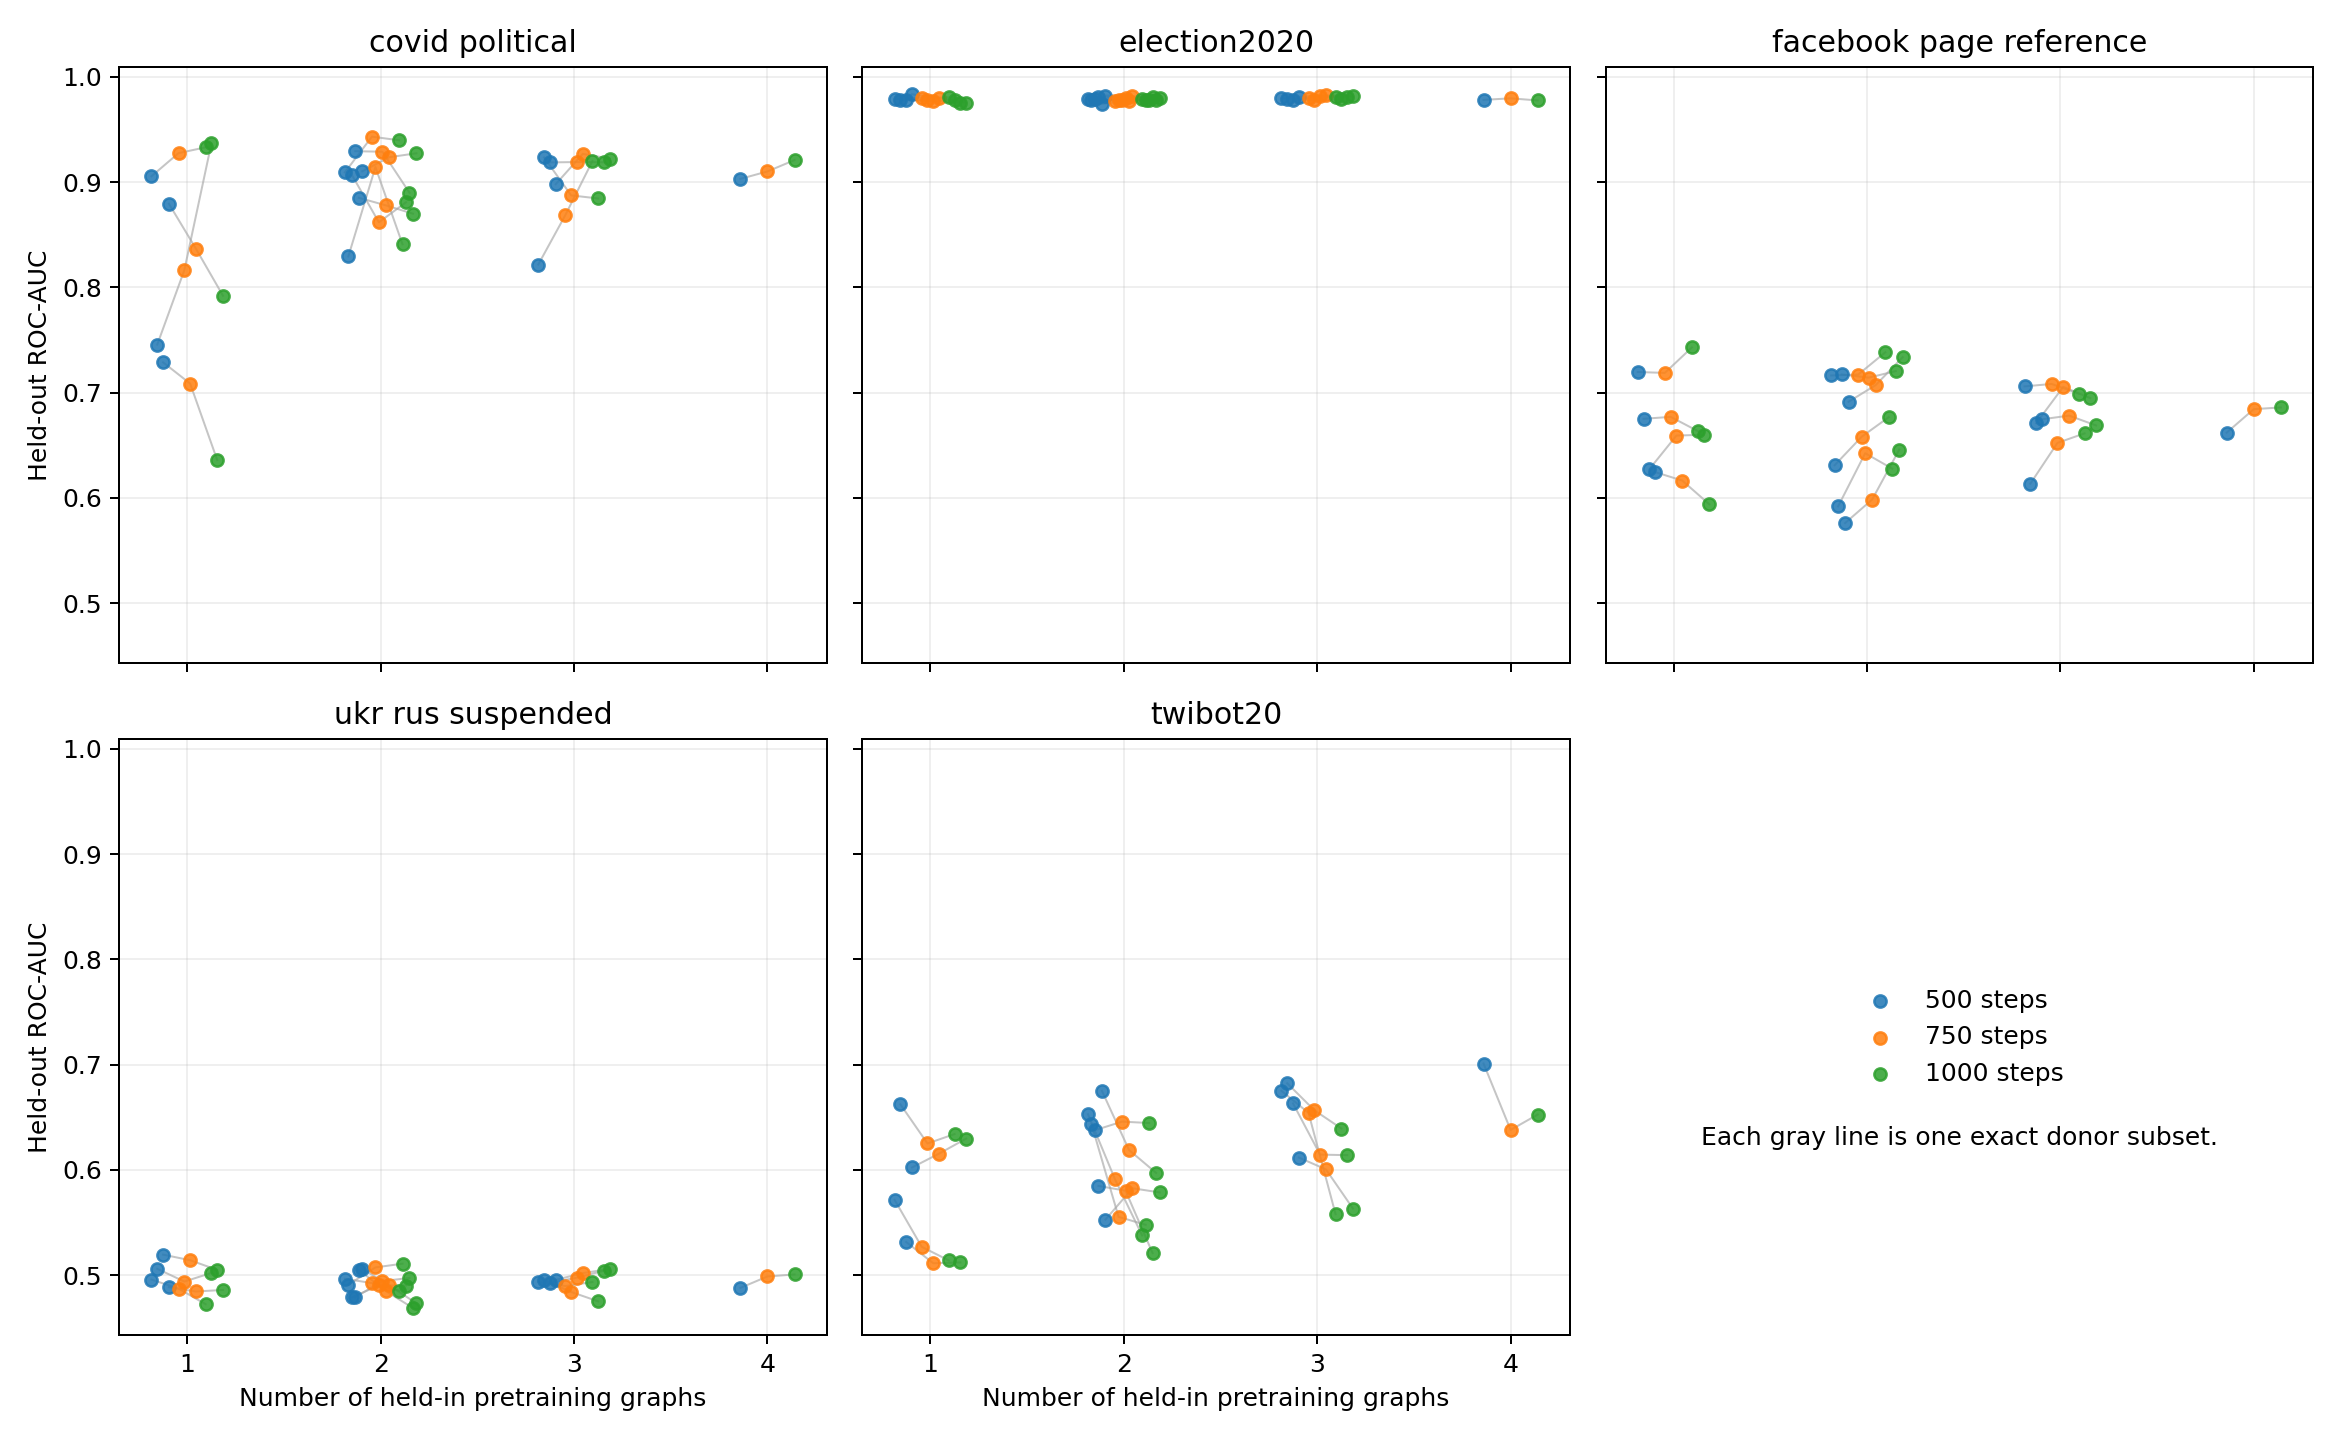
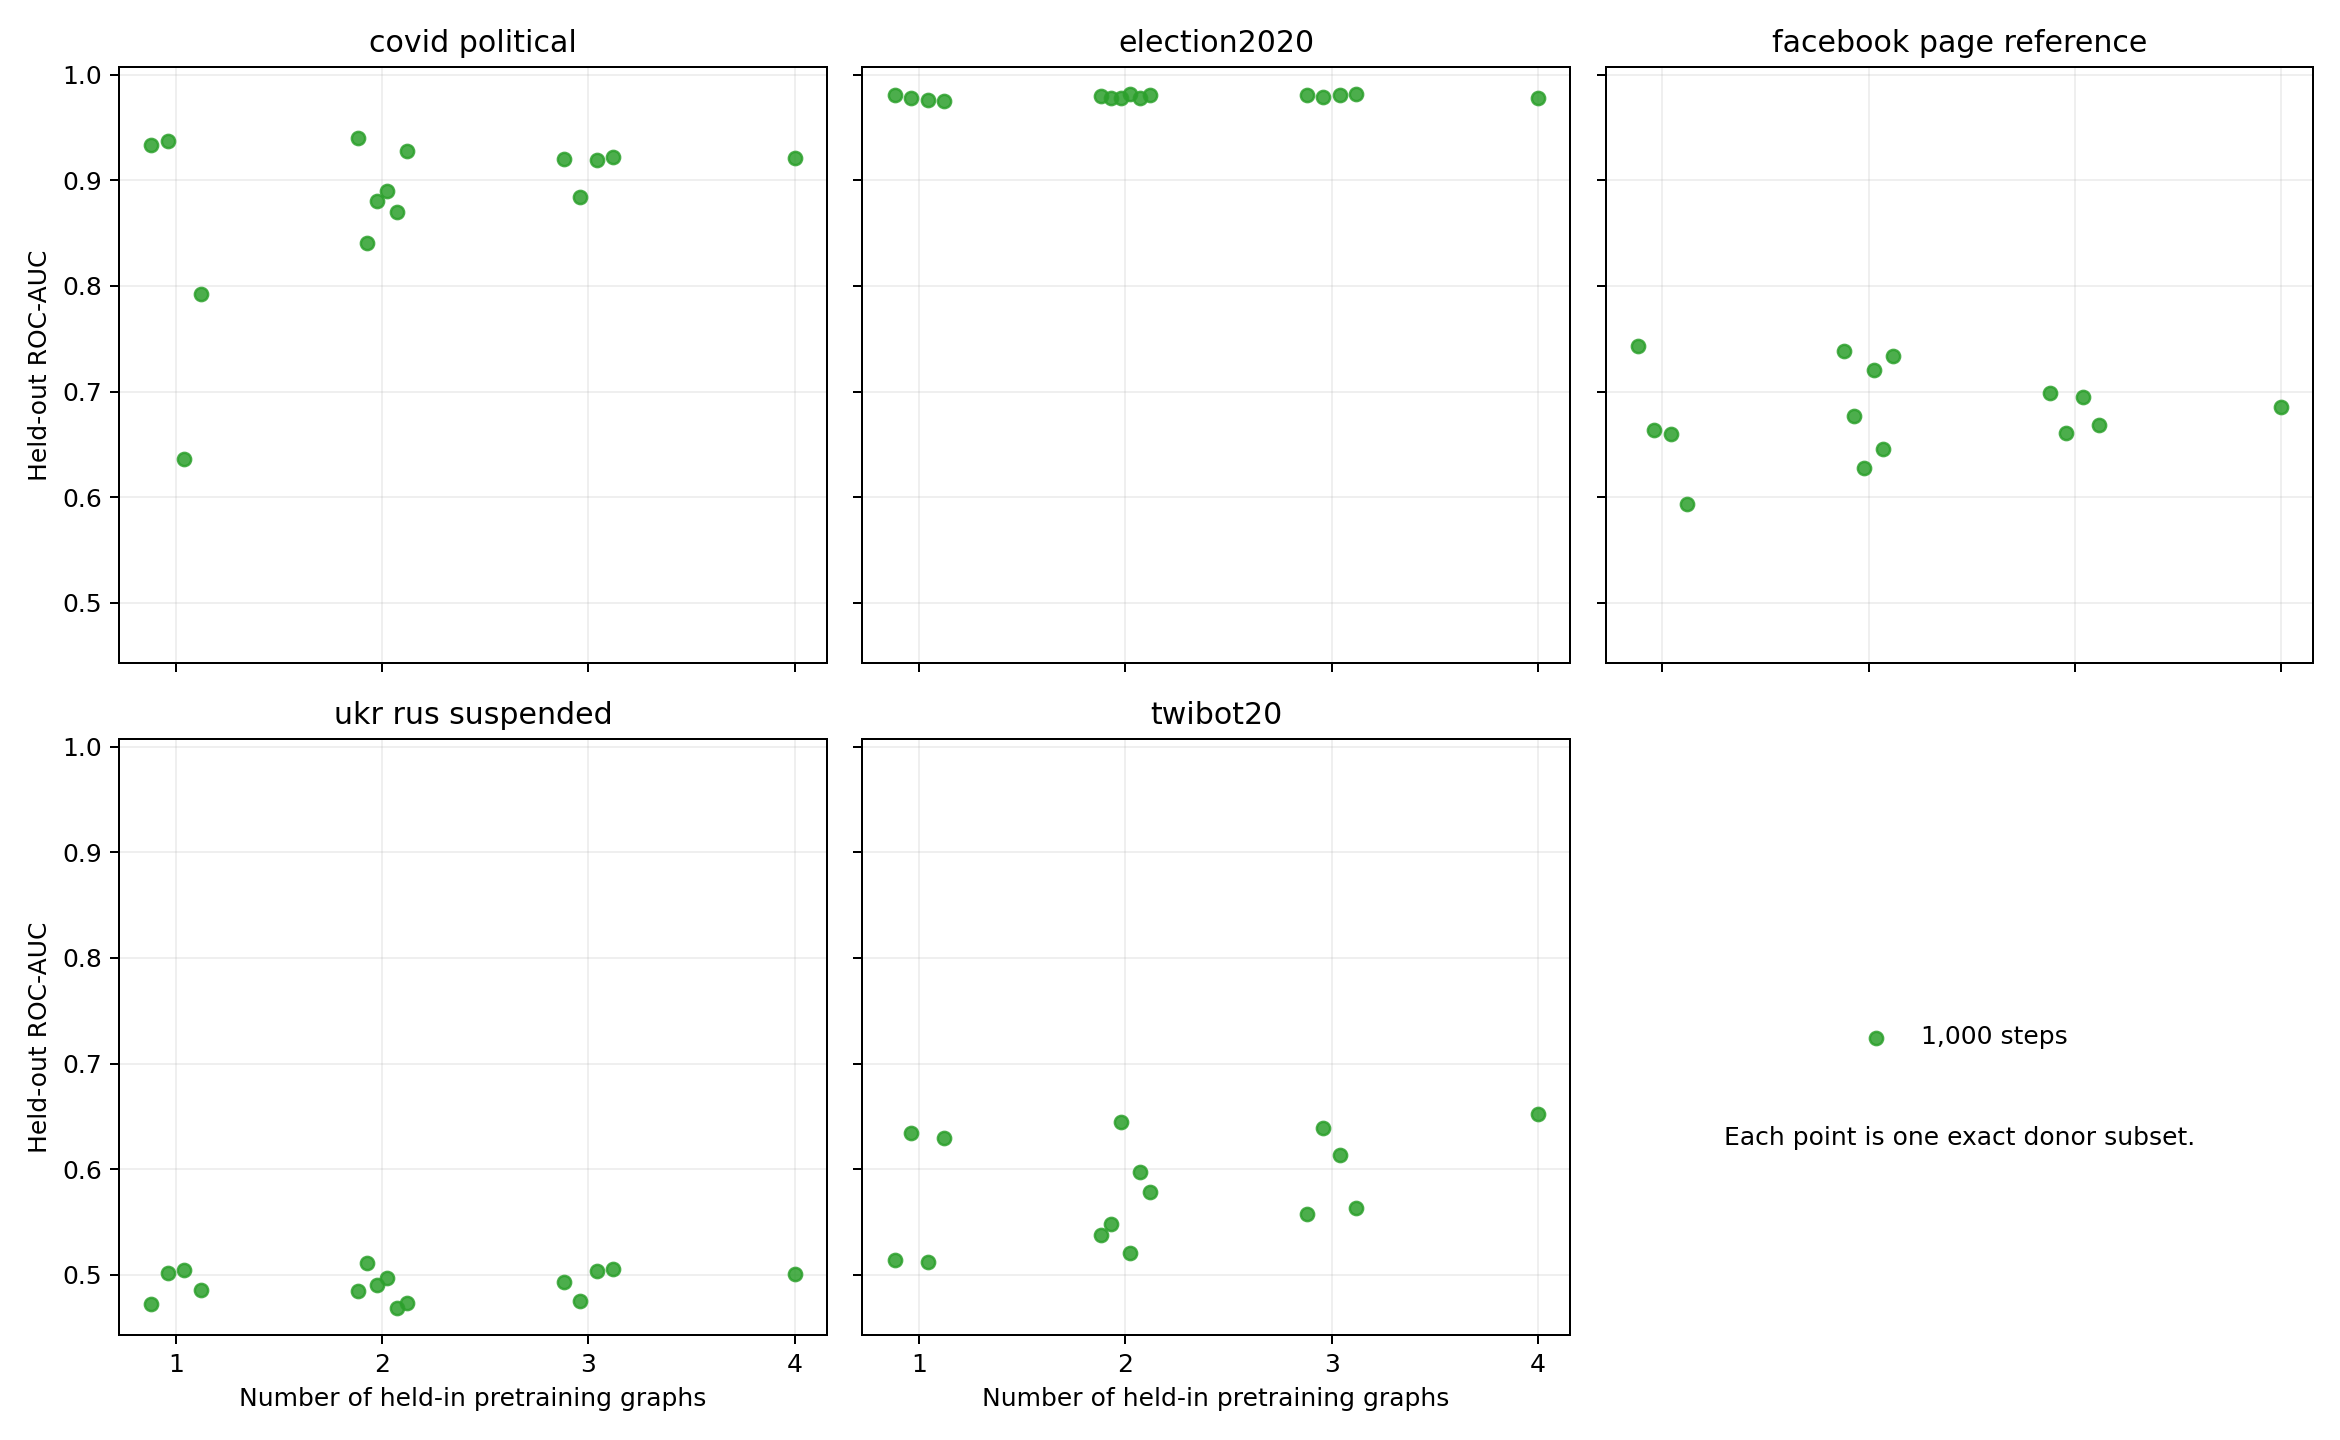
analysis: show raw diversity at 1k only

diff --git a/scripts/experiments/analysis/transfer/ablations/prodigy_nm/source_diversity/labeled_mixture_diversity_cls500/analyze_trajectory.py b/scripts/experiments/analysis/transfer/ablations/prodigy_nm/source_diversity/labeled_mixture_diversity_cls500/analyze_trajectory.py
@@ -318,15 +318,14 @@ def main() -> None:
     fig.savefig(figures / "mixture_diversity_trajectory.png", dpi=180)
     plt.close(fig)
 
-    # Raw-cell view: preserve every exact donor subset instead of averaging by k.
-    # A gray line connects the same trained model across checkpoints.
+    # Raw 1k-cell view: preserve every exact donor subset instead of averaging by k.
     fig, axes = plt.subplots(2, 3, figsize=(13, 8), sharex=True, sharey=True)
-    step_offsets = {500: -0.14, 750: 0.0, 1000: 0.14}
-    colors = {500: "C0", 750: "C1", 1000: "C2"}
     for axis, target in zip(axes.flat[:5], TARGETS):
         target_rows = [
             row for row in rows
-            if row["target"] == target and endpoint(row) == "heldout"
+            if row["target"] == target
+            and endpoint(row) == "heldout"
+            and int(row["training_steps"]) == 1000
         ]
         model_jitter = {}
         for k in range(1, 5):
@@ -334,32 +333,16 @@ def main() -> None:
                 row["model_id"] for row in target_rows
                 if int(row["mixture_size"]) == k
             })
-            jitters = np.linspace(-0.045, 0.045, len(model_ids)) if len(model_ids) > 1 else [0.0]
+            jitters = np.linspace(-0.12, 0.12, len(model_ids)) if len(model_ids) > 1 else [0.0]
             model_jitter.update(dict(zip(model_ids, jitters)))
-        for model_id in sorted({row["model_id"] for row in target_rows}):
-            model_rows = sorted(
-                [row for row in target_rows if row["model_id"] == model_id],
-                key=lambda row: int(row["training_steps"]),
-            )
-            k = int(model_rows[0]["mixture_size"])
-            xs = [
-                k + step_offsets[int(row["training_steps"])] + model_jitter[model_id]
-                for row in model_rows
-            ]
-            ys = [float(row["roc_auc"]) for row in model_rows]
-            axis.plot(xs, ys, color="0.65", linewidth=0.8, alpha=0.65, zorder=1)
-        for step in STEPS:
-            step_target_rows = [
-                row for row in target_rows if int(row["training_steps"]) == step
-            ]
-            xs = [
-                int(row["mixture_size"]) + step_offsets[step] + model_jitter[row["model_id"]]
-                for row in step_target_rows
-            ]
-            axis.scatter(
-                xs, [float(row["roc_auc"]) for row in step_target_rows],
-                s=24, alpha=0.85, color=colors[step], label=f"{step} steps", zorder=2,
-            )
+        xs = [
+            int(row["mixture_size"]) + model_jitter[row["model_id"]]
+            for row in target_rows
+        ]
+        axis.scatter(
+            xs, [float(row["roc_auc"]) for row in target_rows],
+            s=28, alpha=0.85, color="C2", label="1,000 steps", zorder=2,
+        )
         axis.set_title(target.replace("_", " "))
         axis.set_xticks(ks)
         axis.grid(alpha=0.2)
@@ -367,7 +350,7 @@ def main() -> None:
     handles, labels = axes.flat[0].get_legend_handles_labels()
     axes.flat[5].legend(handles, labels, loc="center", fontsize=10, frameon=False)
     axes.flat[5].text(
-        0.5, 0.33, "Each gray line is one exact donor subset.",
+        0.5, 0.33, "Each point is one exact donor subset.",
         ha="center", va="center", transform=axes.flat[5].transAxes,
     )
     for axis in axes[-1, :2]:

diff --git a/scripts/experiments/analysis/transfer/ablations/prodigy_nm/source_diversity/labeled_mixture_diversity_cls500/README.md b/scripts/experiments/analysis/transfer/ablations/prodigy_nm/source_diversity/labeled_mixture_diversity_cls500/README.md
@@ -15,7 +15,7 @@ all checkpoints, summarizes the diversity trajectories, and identifies models wh
 
 Committed evidence includes the original four JSONL shards, continuation shards under
 `data/trajectory/`, consolidated trajectory CSVs, and figures under `figures/`.
-`mixture_diversity_trajectory_raw.png` shows every donor subset without averaging;
+`mixture_diversity_trajectory_raw.png` shows every 1,000-step donor subset without averaging;
 gray lines connect the same trained model across checkpoints.
 
 ```bash
